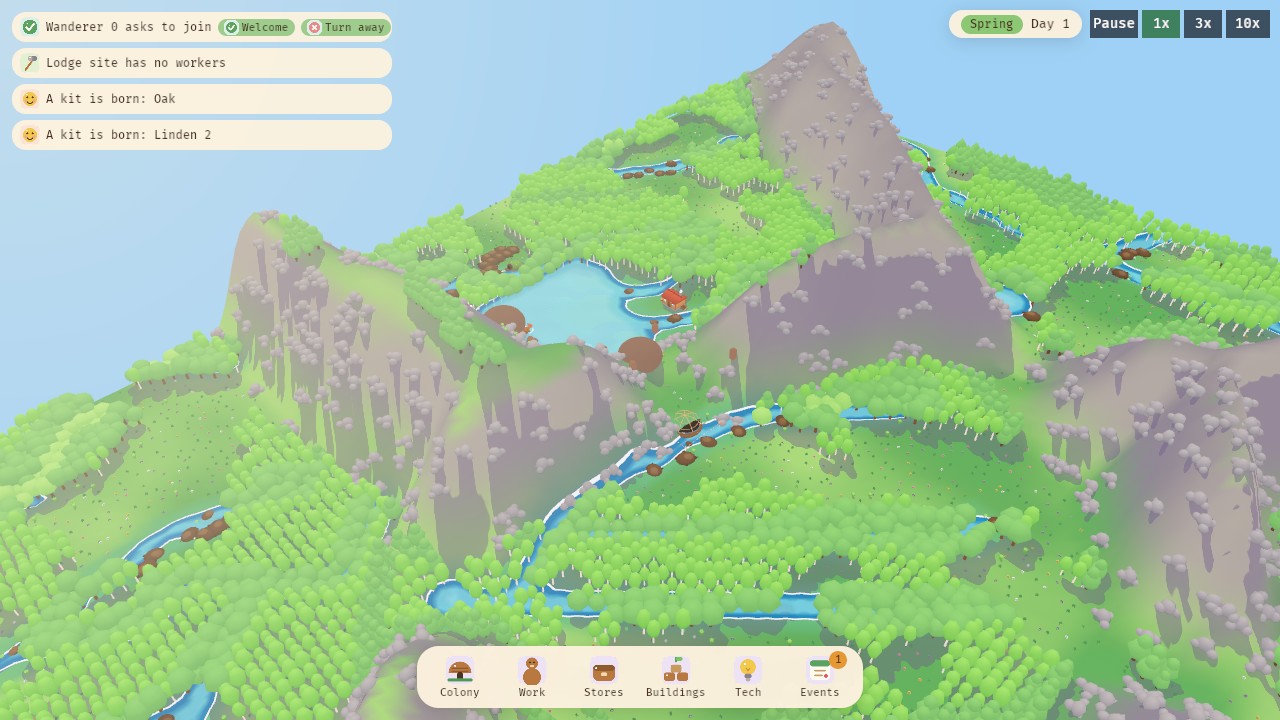
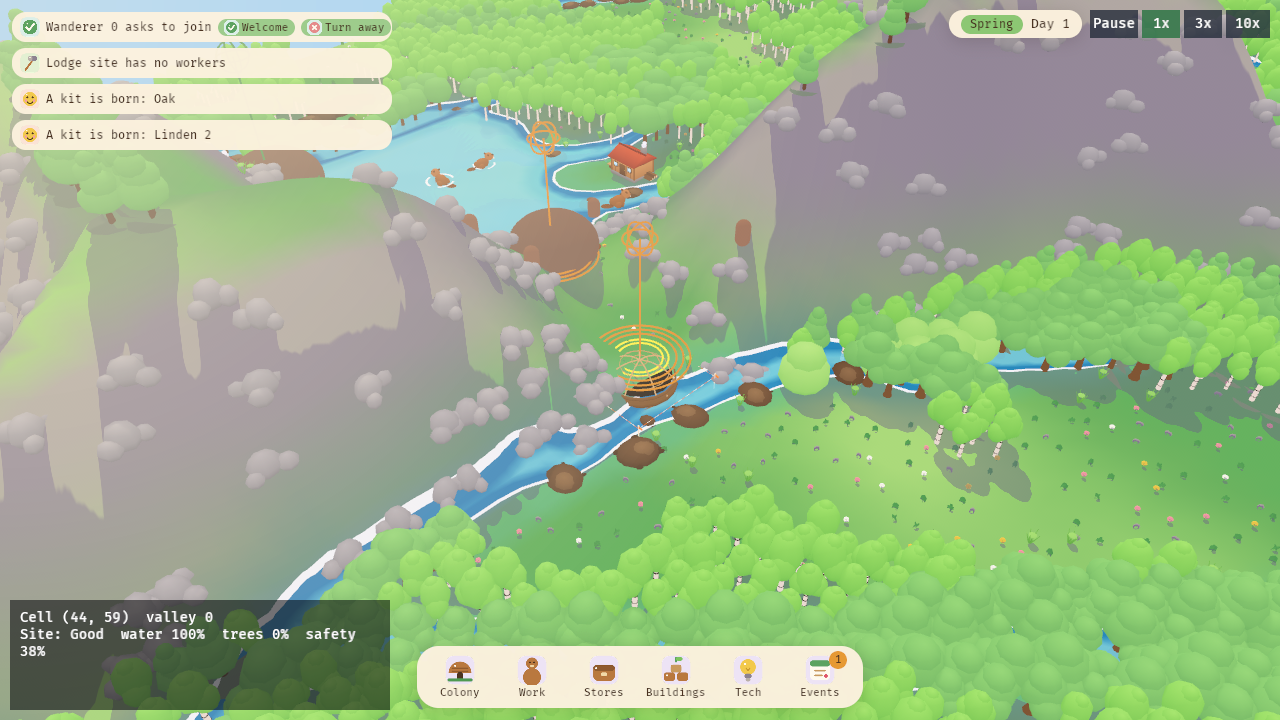
R19-23 Map pins for alerts, building alerts point at the footprint centre, distinct fly-to screenshot

diff --git a/crates/game/src/ui/events.rs b/crates/game/src/ui/events.rs
@@ -103,6 +103,12 @@ fn cell_of(p: (f32, f32)) -> Cell {
     (p.0.max(0.0).round() as usize, p.1.max(0.0).round() as usize)
 }
 
+/// The middle cell of a building's footprint, so an alert about it points at the building itself.
+pub fn centre(b: &sim::buildings::Building) -> Cell {
+    let (w, h) = b.kind.spec().footprint;
+    (b.pos.0 + w / 2, b.pos.1 + h / 2)
+}
+
 fn name_of(sim: &SimState, id: BeaverId) -> String {
     sim.colony.beaver(id).map(|b| super::screens::beaver_name(&sim.colony, b)).unwrap_or_else(|| format!("Beaver {}", id.0))
 }
@@ -149,7 +155,7 @@ pub fn alerts(sim: &SimState) -> Vec<Alert> {
     for p in &sim.work.places {
         let idle = !p.slots.is_empty() && p.slots.iter().all(|s| s.worker.is_none());
         if let Some(b) = sim.buildings.building(p.building).filter(|b| idle && b.status != Status::Complete) {
-            standing(AlertKind::TooFewWorkers, format!("{:?} site has no workers", b.kind), b.pos);
+            standing(AlertKind::TooFewWorkers, format!("{:?} site has no workers", b.kind), centre(b));
             break;
         }
     }
@@ -185,7 +191,7 @@ impl Notices {
         let now_unfinished: HashSet<BuildingId> = sim.buildings.buildings.iter().filter(|b| b.status != Status::Complete).map(|b| b.id).collect();
         for id in self.unfinished.difference(&now_unfinished) {
             if let Some(b) = sim.buildings.building(*id) {
-                add(AlertKind::SiteFinished, format!("{:?} is finished", b.kind), b.pos);
+                add(AlertKind::SiteFinished, format!("{:?} is finished", b.kind), centre(b));
             }
         }
         self.unfinished = now_unfinished;
@@ -320,6 +326,18 @@ pub mod tests {
     }
 
     #[test]
+    fn building_alerts_point_inside_the_building() {
+        let mut sim = super::super::screens::tests::lived_in(3);
+        let n = every_kind(&mut sim);
+        let mut checked = 0;
+        for a in alerts(&sim).into_iter().chain(n.items.iter().cloned()).filter(|a| matches!(a.kind, AlertKind::TooFewWorkers | AlertKind::SiteFinished)) {
+            assert!(sim.buildings.buildings.iter().any(|b| b.cells().any(|c| c == a.at)), "{:?} at {:?} is not on a building", a.kind, a.at);
+            checked += 1;
+        }
+        assert_eq!(checked, 2);
+    }
+
+    #[test]
     fn event_notices_expire() {
         let mut sim = super::super::screens::tests::lived_in(3);
         let n = every_kind(&mut sim);
@@ -341,14 +359,79 @@ pub mod tests {
     }
 }
 
-/// `BC_DEMO_ALERTS=1` (screenshots): once the colony is founded, a stranger asks to join and a lodge
-/// site is placed near the first lodge with nobody on it, so a join request and a located alert show.
-pub fn stage_demo(mut sim: bevy::prelude::ResMut<crate::state::Sim>, mut done: bevy::prelude::Local<bool>) {
-    if *done || std::env::var_os("BC_DEMO_ALERTS").is_none() || !sim.0.colony.is_founded() {
+/// Map pins: every toast on screen marks its place on the terrain with a stem and ring in its tone,
+/// so an alert visibly points at the building, beaver or spot it is about.
+pub fn draw_pins(mut gizmos: bevy::prelude::Gizmos, sim: bevy::prelude::Res<crate::state::Sim>, notices: bevy::prelude::Res<super::NoticesRes>) {
+    use bevy::prelude::*;
+    if !sim.0.colony.is_founded() {
         return;
     }
-    *done = true;
-    let s = &mut sim.0;
+    let h = &sim.0.height;
+    let flat = Quat::from_rotation_arc(Vec3::Z, Vec3::Y);
+    for t in toasts(&sim.0, &notices.0) {
+        let color = super::kit::tone_color(t.alert.kind.tone());
+        let ground = crate::flow::cell_world(h, (t.alert.at.0 as f32, t.alert.at.1 as f32)) + Vec3::Y * 0.2;
+        let top = ground + Vec3::Y * 6.0;
+        gizmos.line(ground, top, color);
+        gizmos.sphere(Isometry3d::from_translation(top), 0.7, color);
+        for r in [1.6, 1.9, 2.2] {
+            gizmos.circle(Isometry3d::new(ground, flat), r, color);
+        }
+    }
+}
+
+/// `BC_DEMO_ALERTS=1` (screenshots): once the colony is founded, a stranger asks to join and a lodge
+/// site is placed near the first lodge with nobody on it, so a join request and a located alert show.
+/// `BC_DEMO_ALERTS=jump` then activates the "no workers" toast exactly as a click does, and holds the
+/// screenshot until the camera has flown to the site and zoomed in.
+#[allow(clippy::too_many_arguments)]
+pub fn stage_demo(
+    mut sim: bevy::prelude::ResMut<crate::state::Sim>,
+    mut flow: bevy::prelude::ResMut<crate::flow::Flow>,
+    mut sel: bevy::prelude::ResMut<crate::flow::Selection>,
+    mut ui: bevy::prelude::ResMut<super::ShellUi>,
+    mut build: bevy::prelude::ResMut<crate::build::BuildUi>,
+    notices: bevy::prelude::Res<super::NoticesRes>,
+    gate: Option<bevy::prelude::ResMut<crate::flow::CaptureGate>>,
+    mut orbit: bevy::prelude::ResMut<crate::camera::OrbitCamera>,
+    mut step: bevy::prelude::Local<u8>,
+) {
+    let Some(mode) = std::env::var_os("BC_DEMO_ALERTS") else { return };
+    let jump = mode == "jump";
+    match *step {
+        0 if sim.0.colony.is_founded() => {
+            stage(&mut sim.0);
+            *step = 1;
+            if jump {
+                if let Some(mut g) = gate {
+                    g.0 = false;
+                }
+            }
+        }
+        1 if jump && flow.focus.is_none() => {
+            // the settle fly-in has finished; now activate the building alert like a click would
+            if let Some(t) = toasts(&sim.0, &notices.0).into_iter().find(|t| t.alert.kind == AlertKind::TooFewWorkers) {
+                let mut reset = false;
+                super::panels::apply(t.jump, &mut sim, &mut flow, &mut sel, &mut ui, &mut build, &mut reset);
+                *step = 2;
+            }
+        }
+        2 if flow.focus.is_none() => {
+            // arrived over the site; the player scrolls in for a closer look
+            orbit.distance = 38.0;
+            *step = 3;
+        }
+        3 => {
+            if let Some(mut g) = gate {
+                g.0 = true;
+            }
+            *step = 4;
+        }
+        _ => {}
+    }
+}
+
+fn stage(s: &mut SimState) {
     let colony = s.colony.clone();
     let _ = s.society.raise(&colony, true, s.time_days);
     let (lx, ly) = home(s);

diff --git a/crates/game/src/ui/mod.rs b/crates/game/src/ui/mod.rs
@@ -33,7 +33,7 @@ pub struct UiPlugin;
 
 impl Plugin for UiPlugin {
     fn build(&self, app: &mut App) {
-        app.init_resource::<NoticesRes>().add_systems(Update, events::stage_demo).add_plugins((panels::PanelsPlugin, icons::IconsPlugin))
+        app.init_resource::<NoticesRes>().add_systems(Update, (events::stage_demo, events::draw_pins)).add_plugins((panels::PanelsPlugin, icons::IconsPlugin))
             .add_systems(PostUpdate, kit::apply_round.before(bevy::ui::UiSystems::Prepare));
     }
 }

diff --git a/artifacts/R19-23/README.md b/artifacts/R19-23/README.md
@@ -1,0 +1,9 @@
+# R19-23 screenshots (Start 2, seed 1, release build)
+
+- `start2-join-request.png`: `BC_DEMO_ALERTS=1 beaver_colony --start 2 --seed 1 --frames 60 --screenshot ...`
+  A wanderer's join request toast with **Welcome** / **Turn away**. Every toast also puts a pin
+  (stem + rings) on the map at its place.
+- `start2-alert-on-building.png`: `BC_DEMO_ALERTS=jump beaver_colony --start 2 --seed 1 --frames 60 --screenshot ...`
+  The "Lodge site has no workers" toast is activated through the same `panels::apply(Do::Jump)` a
+  click runs. The camera flies to the site's centre cell, then zooms in (distance 38). The capture
+  waits until the camera arrives. The pin and the selection ring sit on the unbuilt lodge frame by the river.
